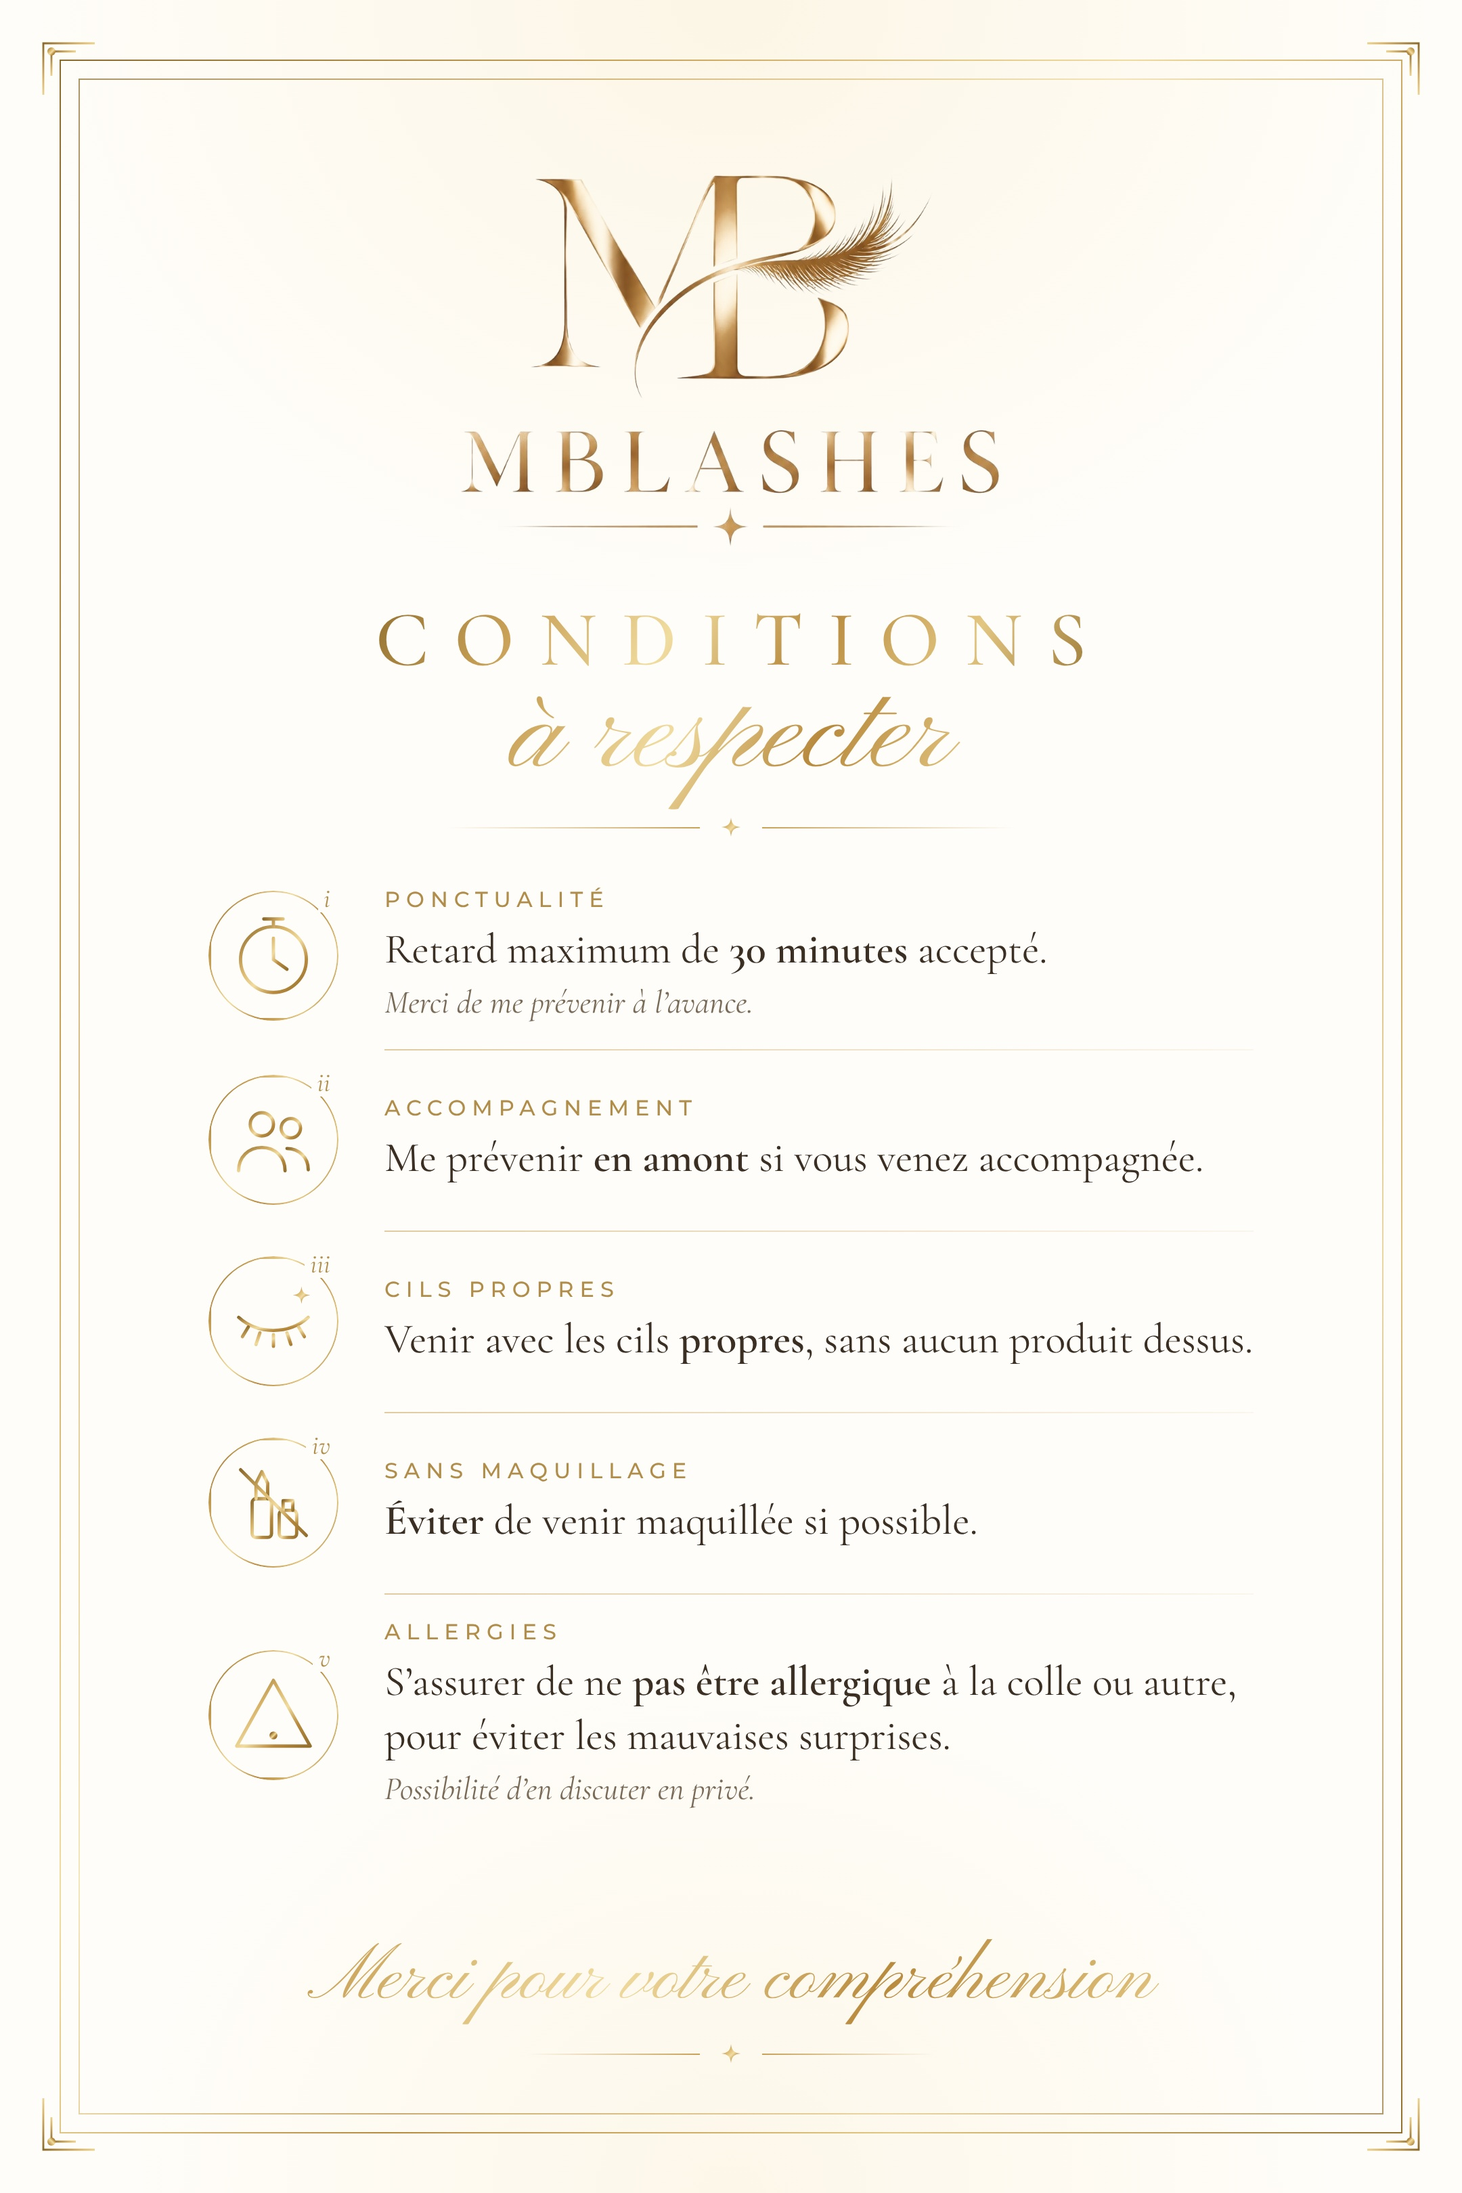
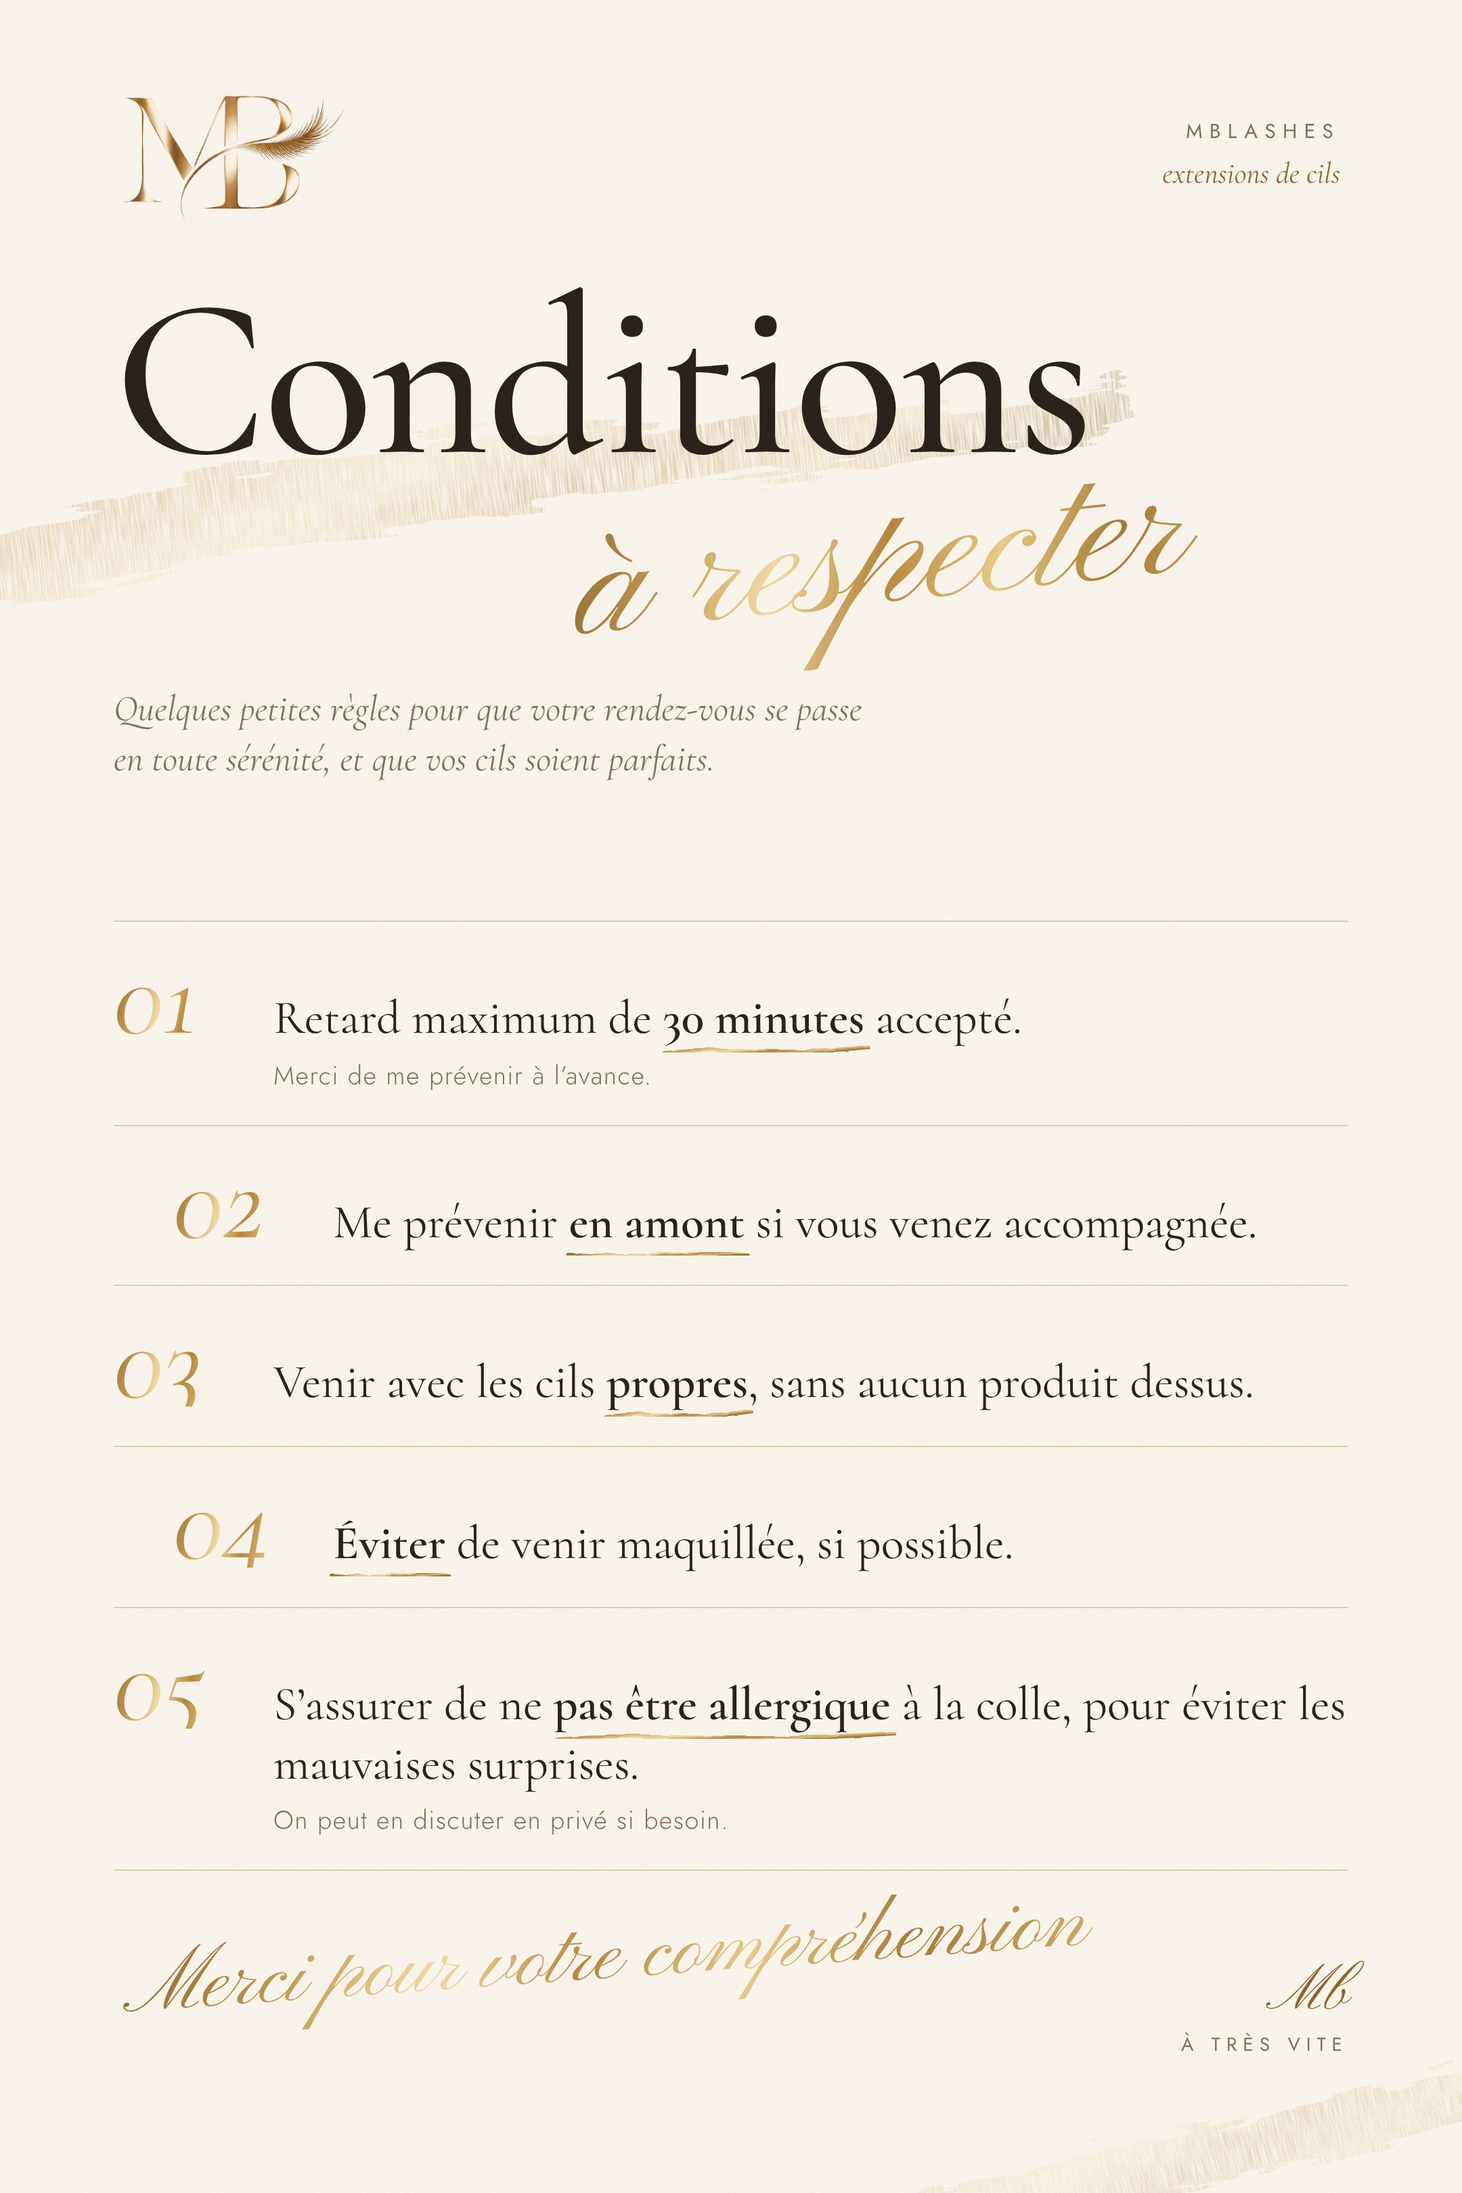
Affiche conditions : DA éditoriale plus naturelle et dynamique
Claude-Session: https://claude.ai/code/session_01KJR1EYEtcL5ZzPzfnF4Kc2

diff --git a/affiche/conditions.html b/affiche/conditions.html
@@ -3,132 +3,108 @@
 <head>
 <meta charset="utf-8">
 <title>MBLashes Conditions</title>
-<link href="https://fonts.googleapis.com/css2?family=Cormorant+Garamond:ital,wght@0,400;0,500;0,600;1,400&family=Pinyon+Script&family=Montserrat:wght@300;400;500&display=swap" rel="stylesheet">
+<link href="https://fonts.googleapis.com/css2?family=Cormorant:ital,wght@0,400;0,500;0,600;1,400;1,500&family=Pinyon+Script&family=Jost:wght@300;400;500&display=swap" rel="stylesheet">
 <style>
   :root{
-    --gold: linear-gradient(120deg,#8c6a2c 0%,#c9a157 22%,#f1dca0 42%,#b88a3e 60%,#e3c681 80%,#94702f 100%);
-    --gold-solid:#b08d4a;
-    --ink:#3b2f24;
-    --muted:#7a6a58;
-    --paper:#fffdf9;
+    --ink:#2b221b; --muted:#85725d; --paper:#fbf7f0; --gold:#b48a45; --gold-d:#8d6930;
+    --foil: linear-gradient(105deg,#8a652a 0%,#c69a52 18%,#f3dfa6 33%,#b9883d 48%,#e9cd8a 64%,#a77c35 80%,#d8b66f 100%);
   }
   *{box-sizing:border-box;margin:0;padding:0}
   html,body{width:1080px;height:1620px;background:var(--paper)}
-  body{font-family:'Cormorant Garamond',serif;color:var(--ink);overflow:hidden}
-  .poster{position:relative;width:1080px;height:1620px;
-    background:
-      radial-gradient(ellipse 70% 40% at 50% 0%, rgba(241,220,160,.22), transparent 70%),
-      radial-gradient(ellipse 60% 35% at 50% 100%, rgba(241,220,160,.18), transparent 70%),
-      var(--paper);}
-  /* frames */
-  .frame{position:absolute;inset:44px;border:1.5px solid transparent;
-    border-image:var(--gold) 1;}
-  .frame.inner{inset:58px;border-width:.75px;opacity:.7}
-  .corner{position:absolute;width:64px;height:64px}
-  .corner svg{width:100%;height:100%}
-  .c1{top:30px;left:30px}.c2{top:30px;right:30px;transform:scaleX(-1)}
-  .c3{bottom:30px;left:30px;transform:scaleY(-1)}.c4{bottom:30px;right:30px;transform:scale(-1)}
+  body{font-family:'Cormorant',serif;color:var(--ink);overflow:hidden}
+  .poster{position:relative;width:1080px;height:1620px;overflow:hidden;background:var(--paper)}
+  .grain{position:absolute;inset:0;pointer-events:none;mix-blend-mode:multiply;opacity:.55;z-index:20}
+  .foil{background:var(--foil);-webkit-background-clip:text;background-clip:text;color:transparent}
 
-  .content{position:absolute;inset:58px;padding:70px 96px 0;display:flex;flex-direction:column;align-items:center}
-  .logo{width:300px;display:block}
-  .wordmark{width:400px;margin-top:22px}
+  .brush{position:absolute;pointer-events:none}
+  .b1{top:250px;left:-120px;width:1000px;transform:rotate(-7deg);opacity:.9}
+  .b2{bottom:-60px;right:-140px;width:760px;transform:rotate(-14deg);opacity:.55}
 
-  .title{margin-top:40px;text-align:center;line-height:1}
-  .title .caps{font-family:'Cormorant Garamond';font-weight:500;font-size:58px;letter-spacing:.32em;padding-left:.32em;
-    background:var(--gold);-webkit-background-clip:text;background-clip:text;color:transparent}
-  .title .script{font-family:'Pinyon Script';font-size:92px;margin-top:-4px;
-    background:var(--gold);-webkit-background-clip:text;background-clip:text;color:transparent;padding:0 20px 14px}
+  header{position:absolute;top:70px;left:90px;right:90px;display:flex;align-items:center;justify-content:space-between;z-index:5}
+  header img{height:92px}
+  header .tag{font-family:'Jost';font-weight:400;font-size:15px;letter-spacing:.34em;color:var(--muted);text-align:right;line-height:1.7}
+  header .tag i{font-family:'Cormorant';font-style:italic;letter-spacing:0;font-size:22px;color:var(--gold-d)}
 
-  .rule{display:flex;align-items:center;gap:16px;width:420px;margin:0 0 18px}
-  .rule::before,.rule::after{content:"";flex:1;height:1px;background:linear-gradient(90deg,transparent,#c9a157)}
-  .rule::after{background:linear-gradient(90deg,#c9a157,transparent)}
-  .star{width:14px;height:14px}
+  .hero{position:absolute;top:205px;left:84px;z-index:5}
+  .hero .big{font-family:'Cormorant';font-weight:500;font-size:168px;line-height:.9;letter-spacing:-.01em;color:var(--ink)}
+  .hero .script{position:absolute;left:330px;top:128px;font-family:'Pinyon Script';font-size:128px;white-space:nowrap;
+    transform:rotate(-6deg);padding:0 30px 30px 10px}
+  .hero .lead{margin-top:150px;max-width:560px;font-size:27px;font-style:italic;color:var(--muted);line-height:1.35}
 
-  ol{list-style:none;width:100%}
-  li{display:grid;grid-template-columns:96px 1fr;align-items:center;gap:34px;padding:19px 0;position:relative}
-  li + li::before{content:"";position:absolute;top:0;left:130px;right:0;height:1px;
-    background:linear-gradient(90deg,rgba(201,161,87,.55),rgba(201,161,87,.08))}
-  .icon{width:96px;height:96px;border-radius:50%;position:relative;display:grid;place-items:center}
-  .icon::before{content:"";position:absolute;inset:0;border-radius:50%;padding:1.5px;background:var(--gold);
-    -webkit-mask:linear-gradient(#000 0 0) content-box,linear-gradient(#000 0 0);-webkit-mask-composite:xor;mask-composite:exclude}
-  .icon svg{width:60px;height:60px}
-  .num{position:absolute;top:-4px;right:2px;line-height:1;background:var(--paper);font-family:'Cormorant Garamond';font-style:italic;
-    font-size:20px;color:var(--gold-solid);padding:0 4px}
-  .txt h3{font-family:'Montserrat';font-weight:500;font-size:16px;letter-spacing:.28em;text-transform:uppercase;color:var(--gold-solid);margin-bottom:8px}
-  .txt p{font-size:31px;line-height:1.28;color:var(--ink)}
-  .txt p b{font-weight:600}
-  .txt small{display:block;font-style:italic;font-size:24px;color:var(--muted);margin-top:4px}
+  ol{position:absolute;top:680px;left:84px;right:84px;list-style:none;z-index:5}
+  li{display:grid;grid-template-columns:118px 1fr;align-items:baseline;padding:22px 0 24px;border-top:1px solid rgba(180,138,69,.35)}
+  li:last-child{border-bottom:1px solid rgba(180,138,69,.35)}
+  .n{font-family:'Cormorant';font-style:italic;font-weight:400;font-size:84px;line-height:.8}
+  .t{font-size:35px;line-height:1.25}
+  .t b{font-weight:600;position:relative;white-space:nowrap}
+  .t b svg{position:absolute;left:-4px;bottom:-9px;width:calc(100% + 8px);height:14px;overflow:visible}
+  .t small{display:block;font-family:'Jost';font-weight:300;font-size:19px;letter-spacing:.04em;color:var(--muted);margin-top:8px}
+  li:nth-child(even){padding-left:44px}
 
-  .footer{position:absolute;left:0;right:0;bottom:96px;text-align:center}
-  .footer .script{font-family:'Pinyon Script';font-size:56px;
-    background:var(--gold);-webkit-background-clip:text;background-clip:text;color:transparent;padding:0 10px 8px}
-  .footer .rule{margin:4px auto 0;width:300px}
+  footer{position:absolute;left:84px;right:84px;bottom:96px;display:flex;align-items:flex-end;justify-content:space-between;z-index:5}
+  footer .merci{font-family:'Pinyon Script';font-size:64px;white-space:nowrap;line-height:1;transform:rotate(-4deg);transform-origin:left bottom;padding:0 10px 20px}
+  footer .sig{text-align:right;white-space:nowrap;font-family:'Jost';font-size:14px;letter-spacing:.32em;color:var(--muted);line-height:2}
+  footer .sig span{font-family:'Pinyon Script';letter-spacing:0;font-size:46px;color:var(--gold-d);display:block;line-height:1}
 </style>
 </head>
 <body>
 <svg width="0" height="0" style="position:absolute">
   <defs>
-    <linearGradient id="g" x1="0" y1="0" x2="1" y2="1">
-      <stop offset="0" stop-color="#8c6a2c"/><stop offset=".35" stop-color="#d9b46a"/>
-      <stop offset=".55" stop-color="#f1dca0"/><stop offset=".75" stop-color="#b88a3e"/><stop offset="1" stop-color="#94702f"/>
+    <linearGradient id="g" x1="0" y1="0" x2="1" y2=".3">
+      <stop offset="0" stop-color="#8a652a"/><stop offset=".25" stop-color="#d1a65c"/><stop offset=".45" stop-color="#f3dfa6"/>
+      <stop offset=".65" stop-color="#b9883d"/><stop offset=".85" stop-color="#e2c27c"/><stop offset="1" stop-color="#9c7433"/>
     </linearGradient>
-    <symbol id="spark" viewBox="0 0 24 24"><path d="M12 0C12.8 8 16 11.2 24 12C16 12.8 12.8 16 12 24C11.2 16 8 12.8 0 12C8 11.2 11.2 8 12 0Z" fill="url(#g)"/></symbol>
+    <filter id="rough" x="-10%" y="-30%" width="120%" height="160%">
+      <feTurbulence type="fractalNoise" baseFrequency=".012 .09" numOctaves="4" seed="7" result="n"/>
+      <feDisplacementMap in="SourceGraphic" in2="n" scale="38" xChannelSelector="R" yChannelSelector="G" result="d"/>
+      <feTurbulence type="fractalNoise" baseFrequency=".9 .04" numOctaves="2" seed="3" result="s"/>
+      <feColorMatrix in="s" type="matrix" values="0 0 0 0 0  0 0 0 0 0  0 0 0 0 0  0 0 0 -2.2 1.55" result="streaks"/>
+      <feComposite in="d" in2="streaks" operator="in"/>
+    </filter>
+    <filter id="pencil"><feTurbulence baseFrequency=".05" numOctaves="2" seed="2"/><feDisplacementMap in="SourceGraphic" scale="3"/></filter>
+    <symbol id="u1" viewBox="0 0 100 14" preserveAspectRatio="none"><path filter="url(#pencil)" d="M2 9 C 30 4, 60 12, 98 5" stroke="url(#g)" stroke-width="3" fill="none" stroke-linecap="round"/></symbol>
+    <symbol id="u2" viewBox="0 0 100 14" preserveAspectRatio="none"><path filter="url(#pencil)" d="M2 7 C 35 11, 65 3, 98 8" stroke="url(#g)" stroke-width="3" fill="none" stroke-linecap="round"/></symbol>
   </defs>
 </svg>
 
 <div class="poster">
-  <div class="frame"></div><div class="frame inner"></div>
-  <!-- corner ornaments -->
-  <template id="corner"><svg viewBox="0 0 64 64" fill="none" stroke="url(#g)" stroke-width="1.4"><path d="M2 40V2h38"/><path d="M8 26V8h18"/><circle cx="8" cy="8" r="3" fill="url(#g)" stroke="none"/></svg></template>
-  <div class="corner c1"></div><div class="corner c2"></div><div class="corner c3"></div><div class="corner c4"></div>
+  <svg class="grain" width="1080" height="1620"><filter id="gr"><feTurbulence type="fractalNoise" baseFrequency=".85" numOctaves="3" stitchTiles="stitch"/><feColorMatrix values="0 0 0 0 .55  0 0 0 0 .47  0 0 0 0 .36  0 0 0 .22 0"/></filter><rect width="100%" height="100%" filter="url(#gr)"/></svg>
 
-  <div class="content">
-    <img class="logo" src="logo-mb.png" alt="MB">
-    <img class="wordmark" src="logo-text.png" alt="MBLashes">
+  <svg class="brush b1" viewBox="0 0 1000 200"><path filter="url(#rough)" fill="url(#g)" opacity=".42"
+    d="M40 120 C 200 70, 420 60, 640 78 S 900 96, 960 88 C 970 112, 940 130, 900 128 C 700 120, 420 118, 230 140 C 140 150, 60 158, 40 120Z"/></svg>
+  <svg class="brush b2" viewBox="0 0 1000 200"><path filter="url(#rough)" fill="url(#g)" opacity=".5"
+    d="M30 110 C 250 60, 520 70, 760 80 S 960 92, 980 100 C 975 128, 900 140, 820 134 C 600 124, 380 130, 180 150 C 90 158, 40 140, 30 110Z"/></svg>
 
-    <div class="title">
-      <div class="caps">CONDITIONS</div>
-      <div class="script">à respecter</div>
-    </div>
-    <div class="rule"><svg class="star"><use href="#spark"/></svg></div>
+  <header>
+    <img src="logo-mb.png" alt="MB">
+    <div class="tag">MBLASHES<br><i>extensions de cils</i></div>
+  </header>
 
-    <ol>
-      <li>
-        <div class="icon"><span class="num">i</span>
-          <svg viewBox="3 3 42 42" fill="none" stroke="url(#g)" stroke-width="1.7" stroke-linecap="round"><circle cx="24" cy="26" r="17"/><path d="M24 15v11l7 5M19 5h10M24 5v4"/></svg></div>
-        <div class="txt"><h3>Ponctualité</h3><p>Retard maximum de <b>30 minutes</b> accepté.<small>Merci de me prévenir à l’avance.</small></p></div>
-      </li>
-      <li>
-        <div class="icon"><span class="num">ii</span>
-          <svg viewBox="3 3 42 42" fill="none" stroke="url(#g)" stroke-width="1.7" stroke-linecap="round"><circle cx="18" cy="16" r="6"/><path d="M6 40c0-7 5-12 12-12s12 5 12 12"/><circle cx="33" cy="18" r="5"/><path d="M31 28.5c6 0 11 4.5 11 11"/></svg></div>
-        <div class="txt"><h3>Accompagnement</h3><p>Me prévenir <b>en amont</b> si vous venez accompagnée.</p></div>
-      </li>
-      <li>
-        <div class="icon"><span class="num">iii</span>
-          <svg viewBox="3 3 42 42" fill="none" stroke="url(#g)" stroke-width="1.7" stroke-linecap="round"><path d="M6 22c10 9 26 9 36 0"/><path d="M11 27l-3 5M17 30l-2 6M24 31v6M31 30l2 6M37 27l3 5"/><use href="#spark" x="34" y="6" width="9" height="9" stroke="none"/></svg></div>
-        <div class="txt"><h3>Cils propres</h3><p>Venir avec les cils <b>propres</b>, sans aucun produit dessus.</p></div>
-      </li>
-      <li>
-        <div class="icon"><span class="num">iv</span>
-          <svg viewBox="3 3 42 42" fill="none" stroke="url(#g)" stroke-width="1.7" stroke-linecap="round" stroke-linejoin="round"><rect x="13" y="22" width="10" height="20" rx="2"/><path d="M15 22v-8l3-6 3 6v8"/><rect x="27" y="28" width="9" height="14" rx="2"/><path d="M29 28v-5h5v5"/><path d="M7 7l34 34"/></svg></div>
-        <div class="txt"><h3>Sans maquillage</h3><p><b>Éviter</b> de venir maquillée si possible.</p></div>
-      </li>
-      <li>
-        <div class="icon"><span class="num">v</span>
-          <svg viewBox="3 3 42 42" fill="none" stroke="url(#g)" stroke-width="1.7" stroke-linecap="round" stroke-linejoin="round"><path d="M24 6l19 34H5z"/><path d="M24 19v10"/><circle cx="24" cy="34.5" r="1.2" fill="url(#g)"/></svg></div>
-        <div class="txt"><h3>Allergies</h3><p>S’assurer de ne <b>pas être allergique</b> à la colle ou autre, pour éviter les mauvaises surprises.<small>Possibilité d’en discuter en privé.</small></p></div>
-      </li>
-    </ol>
-  </div>
+  <section class="hero">
+    <div class="big">Conditions</div>
+    <div class="script foil">à respecter</div>
+    <p class="lead">Quelques petites règles pour que votre rendez-vous se passe en toute sérénité, et que vos cils soient parfaits.</p>
+  </section>
 
-  <div class="footer">
-    <div class="script">Merci pour votre compréhension</div>
-    <div class="rule"><svg class="star"><use href="#spark"/></svg></div>
-  </div>
+  <ol>
+    <li><span class="n foil">01</span>
+      <p class="t">Retard maximum de <b>30 minutes<svg><use href="#u1"/></svg></b> accepté.
+      <small>Merci de me prévenir à l’avance.</small></p></li>
+    <li><span class="n foil">02</span>
+      <p class="t">Me prévenir <b>en amont<svg><use href="#u2"/></svg></b> si vous venez accompagnée.</p></li>
+    <li><span class="n foil">03</span>
+      <p class="t">Venir avec les cils <b>propres<svg><use href="#u1"/></svg></b>, sans aucun produit dessus.</p></li>
+    <li><span class="n foil">04</span>
+      <p class="t"><b>Éviter<svg><use href="#u2"/></svg></b> de venir maquillée, si possible.</p></li>
+    <li><span class="n foil">05</span>
+      <p class="t">S’assurer de ne <b>pas être allergique<svg><use href="#u1"/></svg></b> à la colle, pour éviter les mauvaises surprises.
+      <small>On peut en discuter en privé si besoin.</small></p></li>
+  </ol>
+
+  <footer>
+    <div class="merci foil">Merci pour votre compréhension</div>
+    <div class="sig"><span>Mb</span>À TRÈS VITE</div>
+  </footer>
 </div>
-<script>
-  const t=document.getElementById('corner');
-  document.querySelectorAll('.corner').forEach(c=>c.appendChild(t.content.cloneNode(true)));
-</script>
 </body>
 </html>
